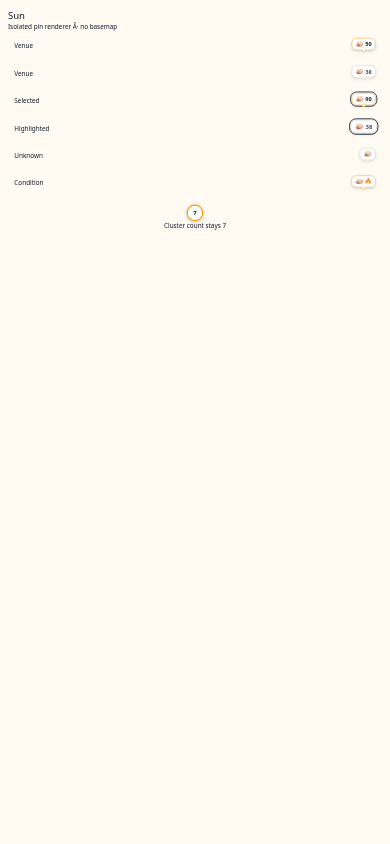
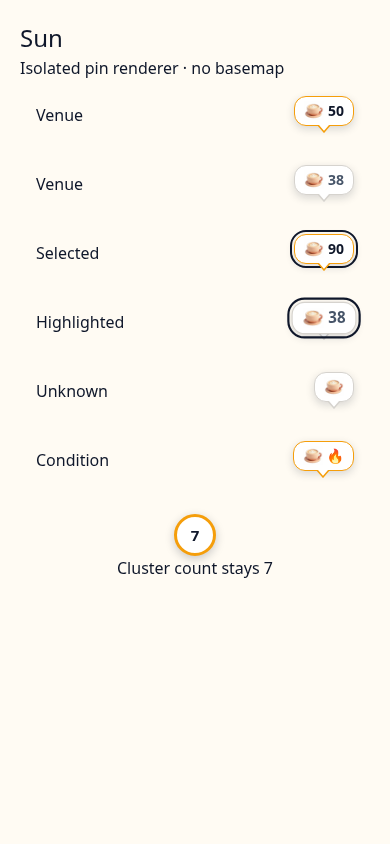
Capture readable mobile pin previews against the original Sun renderer

diff --git a/docs/screenshots/after-dark-night-pins/README.md b/docs/screenshots/after-dark-night-pins/README.md
@@ -35,6 +35,6 @@ verified here; the pin renderer's pixel equality was verified directly.
 
 Run `node docs/screenshots/after-dark-night-pins/capture.mjs after` from the repo
 root (local port 5220, `/usr/bin/chromium`, overridable with
-`PLAYWRIGHT_CHROMIUM_EXECUTABLE_PATH`). The baseline `before` run used main before
-editing. The Vite plugin exports private renderer functions only for the test
+`PLAYWRIGHT_CHROMIUM_EXECUTABLE_PATH`). The `before` test-server transform uses the original renderer and helper from
+base `5904162` for a reproducible baseline. The Vite plugin exports private renderer functions only for the test
 server; production exports are unchanged. No merge or deployment performed.
